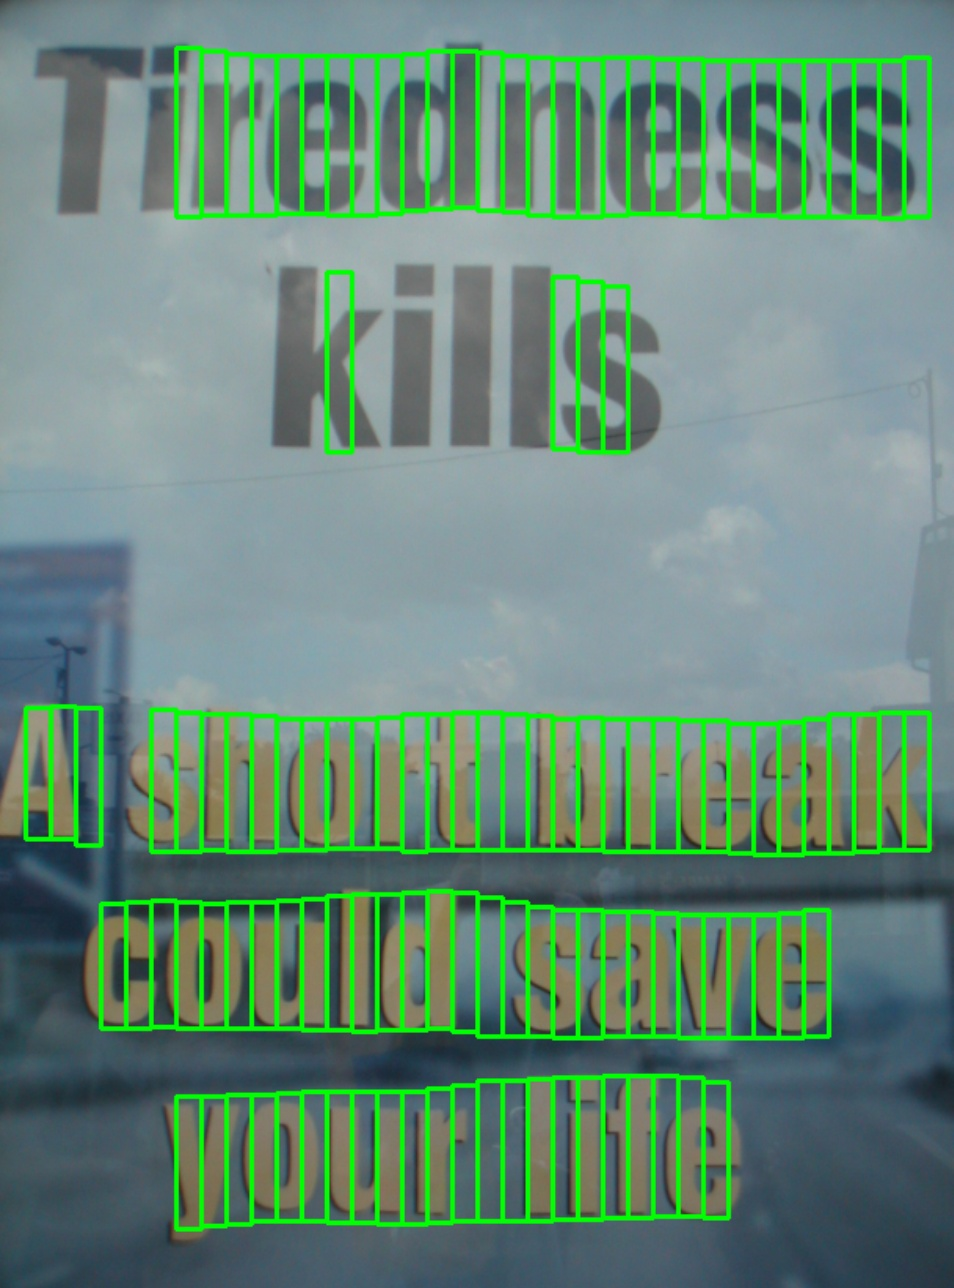
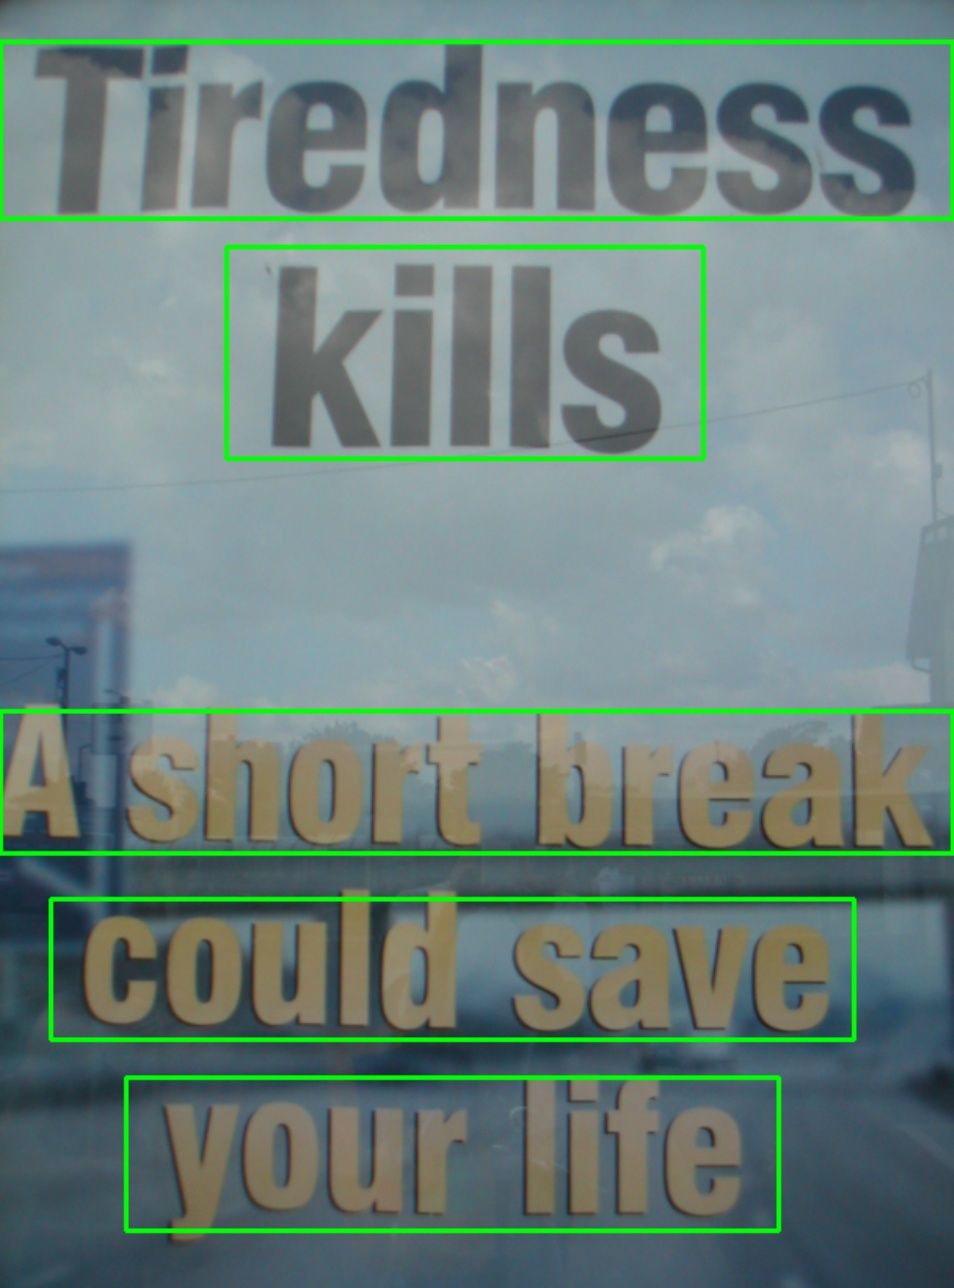
text connector

Changed region(s): [[0.0, 0.528, 1.0, 0.9627], [0.0, 0.0311, 1.0, 0.3727]]

diff --git a/main/demo.py b/main/demo.py
@@ -2,14 +2,14 @@
 import os
 import shutil
 import sys
-
 import cv2
 import numpy as np
 import tensorflow as tf
-
 sys.path.append(os.getcwd())
 from nets import model_train as model
 from utils.rpn_msr.proposal_layer import proposal_layer
+from utils.text_connector.detectors import TextDetector
+
 
 tf.app.flags.DEFINE_string('test_data_path', 'data/demo/', '')
 tf.app.flags.DEFINE_string('output_path', 'data/res/', '')
@@ -95,17 +95,18 @@ def main(argv=None):
                 scores = rois[:, 0]
                 boxes = rois[:, 1:5]
 
-                # textdetector = TextDetector()
-                # boxes = textdetector.detect(boxes, scores[:, np.newaxis], img.shape[:2])
+                textdetector = TextDetector()
+                boxes = textdetector.detect(boxes, scores[:, np.newaxis], img.shape[:2])
+                boxes = np.array(boxes,dtype=np.int)
 
                 for i, box in enumerate(boxes):
-                    if scores[i] >= 0.98:
+                    if scores[i] >= 0.9:
                         color = (0, 255, 0)
                     #elif scores[i] >= 0.95:
                     #    color = (255, 0, 0)
                     else:
                         continue
-                    cv2.rectangle(img, (box[0], box[1]), (box[2], box[3]), color=color, thickness=2)
+                    cv2.rectangle(img, (box[0], box[1]), (box[6], box[7]), color=color, thickness=2)
                 img = cv2.resize(img, None, None, fx=1.0 / rh, fy=1.0 / rw, interpolation=cv2.INTER_LINEAR)
                 cv2.imwrite(os.path.join(FLAGS.output_path, os.path.basename(im_fn)), img[:,:,::-1])
 

diff --git a/utils/text_connector/detectors.py b/utils/text_connector/detectors.py
@@ -1,7 +1,6 @@
 # coding:utf-8
 import numpy as np
-from lib.fast_rcnn.config import cfg
-from lib.fast_rcnn.nms_wrapper import nms
+from utils.bbox.nms import nms
 
 from .text_connect_cfg import Config as TextLineCfg
 from .text_proposal_connector import TextProposalConnector
@@ -9,8 +8,8 @@ from .text_proposal_connector_oriented import TextProposalConnector as TextPropo
 
 
 class TextDetector:
-    def __init__(self):
-        self.mode = cfg.TEST.DETECT_MODE
+    def __init__(self, DETECT_MODE = "H"):
+        self.mode = DETECT_MODE
         if self.mode == "H":
             self.text_proposal_connector = TextProposalConnector()
         elif self.mode == "O":

diff --git a/utils/text_connector/text_connect_cfg.py b/utils/text_connector/text_connect_cfg.py
@@ -1,12 +1,10 @@
 class Config:
-    SCALE = 600
-    MAX_SCALE = 1200
-    TEXT_PROPOSALS_WIDTH = 16
-    MIN_NUM_PROPOSALS = 2
-    MIN_RATIO = 0.5
-    LINE_MIN_SCORE = 0.9
     MAX_HORIZONTAL_GAP = 50
     TEXT_PROPOSALS_MIN_SCORE = 0.7
     TEXT_PROPOSALS_NMS_THRESH = 0.2
     MIN_V_OVERLAPS = 0.7
     MIN_SIZE_SIM = 0.7
+    MIN_RATIO = 0.5
+    LINE_MIN_SCORE = 0.9
+    TEXT_PROPOSALS_WIDTH = 16
+    MIN_NUM_PROPOSALS = 2

diff --git a/utils/text_connector/text_proposal_connector.py b/utils/text_connector/text_proposal_connector.py
@@ -1,7 +1,7 @@
 import numpy as np
 
-from .other import clip_boxes
-from .text_proposal_graph_builder import TextProposalGraphBuilder
+from utils.text_connector.other import clip_boxes
+from utils.text_connector.text_proposal_graph_builder import TextProposalGraphBuilder
 
 
 class TextProposalConnector:

diff --git a/utils/text_connector/text_proposal_graph_builder.py b/utils/text_connector/text_proposal_graph_builder.py
@@ -1,7 +1,7 @@
 import numpy as np
 
-from .other import Graph
-from .text_connect_cfg import Config as TextLineCfg
+from utils.text_connector.other import Graph
+from utils.text_connector.text_connect_cfg import Config as TextLineCfg
 
 
 class TextProposalGraphBuilder:

diff --git a/utils/text_connector/text_proposal_connector_oriented.py b/utils/text_connector/text_proposal_connector_oriented.py
@@ -1,7 +1,6 @@
 # coding:utf-8
 import numpy as np
-
-from .text_proposal_graph_builder import TextProposalGraphBuilder
+from utils.text_connector.text_proposal_graph_builder import TextProposalGraphBuilder
 
 
 class TextProposalConnector:
